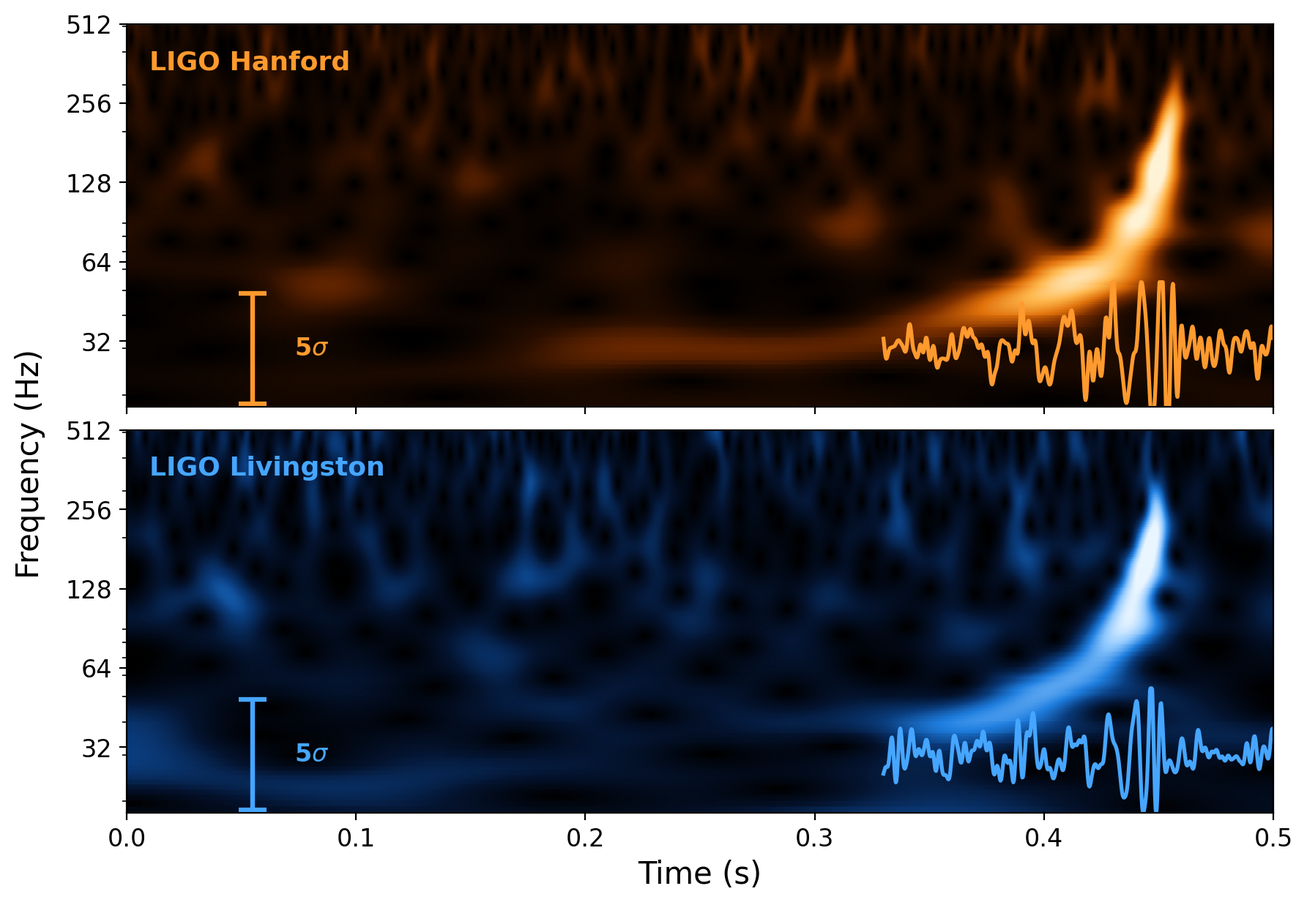
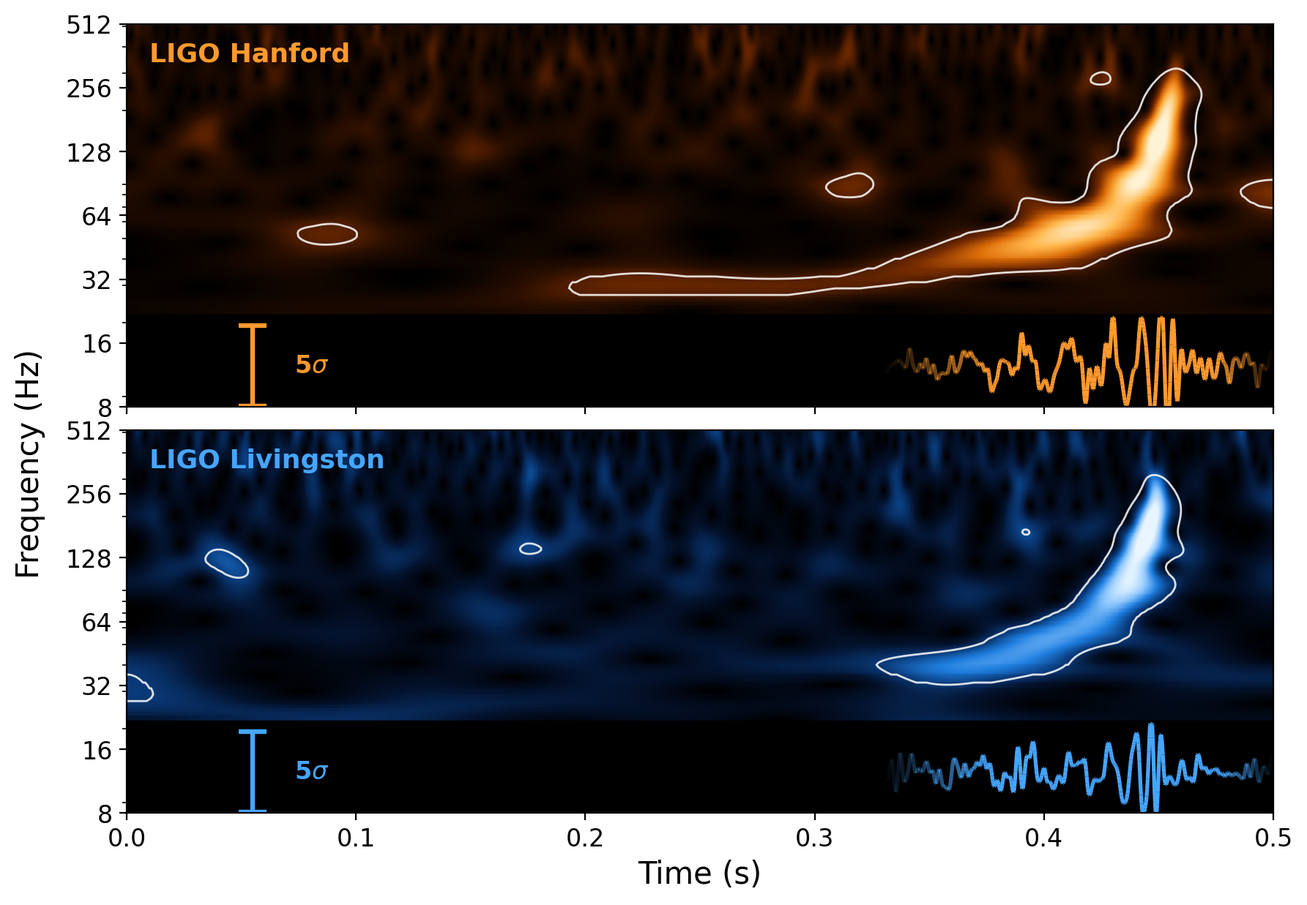
GW150914 wavelet figure: AR(1) 99% significance contour, gradient line, lower floor
- Outline the wavelet power's 99% confidence region against an AR(1) red-noise
  background (Torrence & Compo; chi2_2(0.99)/2), reusing the project's
  significance method; the chirp clears it in both detectors.
- Lower the frequency floor to 8 Hz and drop the overlaid strain into the
  8-22 Hz band so it no longer overlaps the scalogram.
- Fade the truncated ends of the strain line with a gradient alpha.
Prose, code tab and chap7.ipynb updated.

Claude-Session: https://claude.ai/code/session_013g6Jis2ksDyqM4YC8tx1nv

diff --git a/docs/chap7.html b/docs/chap7.html
@@ -709,6 +709,7 @@ The STFT spectra of a signal that consists of a growing wave, a chriping wave, a
 <ul>
 <li>One panel per detector — <strong>LIGO Hanford</strong> (top) and <strong>LIGO Livingston</strong> (bottom). Each shows the <strong>Morlet-wavelet (CWT) scalogram</strong> of that detector’s whitened strain; the band-passed strain itself is drawn as the wiggling line over the <strong>time of interest</strong> (the last ~0.15 s), and the vertical <strong>I-beam</strong> at the left gives its amplitude — about <span class="math inline">5\sigma</span> of the whitened-noise level.</li>
 <li>In <strong>both</strong> detectors the same bright track sweeps up — from ~35 Hz to past ~250 Hz in the final ~0.2 s — the inspiral <strong>chirp</strong>, ending at the merger. Two independent instruments, 3000 km apart, recording the identical sweep is the core of the detection’s credibility.</li>
+<li>The white outline is the <strong>99 % significance contour</strong>: the wavelet power exceeding the <span class="math inline">\chi^2_2</span> confidence level of an <strong>AR(1) red-noise</strong> background (Torrence &amp; Compo). The chirp clears it comfortably in both detectors; almost nothing in the surrounding noise does.</li>
 <li>Because the wavelet’s window <em>narrows in time as the frequency rises</em> (constant-<span class="math inline">Q</span>), it tracks the rapidly accelerating chirp far more cleanly than a fixed-window STFT could — a preview of the continuous wavelet transform introduced next.</li>
 </ul>
 </div>
@@ -723,65 +724,81 @@ The STFT spectra of a signal that consists of a growing wave, a chriping wave, a
 </div>
 <div id="tabset-2-2" class="tab-pane" role="tabpanel" aria-labelledby="tabset-2-2-tab">
 <div class="code-copy-outer-scaffold"><div class="sourceCode" id="cb3"><pre class="sourceCode python code-with-copy"><code class="sourceCode python"><span id="cb3-1"><a href="#cb3-1" aria-hidden="true" tabindex="-1"></a><span class="im">import</span> numpy <span class="im">as</span> np, urllib.request</span>
-<span id="cb3-2"><a href="#cb3-2" aria-hidden="true" tabindex="-1"></a><span class="im">import</span> scipy.signal <span class="im">as</span> sig, scipy.interpolate, ssqueezepy</span>
-<span id="cb3-3"><a href="#cb3-3" aria-hidden="true" tabindex="-1"></a><span class="im">import</span> matplotlib.pyplot <span class="im">as</span> plt</span>
+<span id="cb3-2"><a href="#cb3-2" aria-hidden="true" tabindex="-1"></a><span class="im">import</span> scipy.signal <span class="im">as</span> sig, scipy.interpolate, scipy.stats, ssqueezepy</span>
+<span id="cb3-3"><a href="#cb3-3" aria-hidden="true" tabindex="-1"></a><span class="im">import</span> matplotlib.pyplot <span class="im">as</span> plt, matplotlib.colors <span class="im">as</span> mcolors</span>
 <span id="cb3-4"><a href="#cb3-4" aria-hidden="true" tabindex="-1"></a><span class="im">from</span> matplotlib.colors <span class="im">import</span> LinearSegmentedColormap</span>
-<span id="cb3-5"><a href="#cb3-5" aria-hidden="true" tabindex="-1"></a><span class="im">from</span> ssqueezepy.experimental <span class="im">import</span> scale_to_freq</span>
-<span id="cb3-6"><a href="#cb3-6" aria-hidden="true" tabindex="-1"></a></span>
-<span id="cb3-7"><a href="#cb3-7" aria-hidden="true" tabindex="-1"></a>fs <span class="op">=</span> <span class="dv">4096</span><span class="op">;</span> dt <span class="op">=</span> <span class="dv">1</span> <span class="op">/</span> fs</span>
-<span id="cb3-8"><a href="#cb3-8" aria-hidden="true" tabindex="-1"></a>tm <span class="op">=</span> <span class="fl">16.422</span>                                   <span class="co"># merger, seconds into the 32 s file</span></span>
-<span id="cb3-9"><a href="#cb3-9" aria-hidden="true" tabindex="-1"></a></span>
-<span id="cb3-10"><a href="#cb3-10" aria-hidden="true" tabindex="-1"></a><span class="co"># --- LIGO Open Science Center strain (4096 Hz, 32 s around GW150914) ---</span></span>
-<span id="cb3-11"><a href="#cb3-11" aria-hidden="true" tabindex="-1"></a>base <span class="op">=</span> <span class="st">'https://gwosc.org/s/events/GW150914/'</span></span>
-<span id="cb3-12"><a href="#cb3-12" aria-hidden="true" tabindex="-1"></a><span class="kw">def</span> fetch(tag):</span>
-<span id="cb3-13"><a href="#cb3-13" aria-hidden="true" tabindex="-1"></a>    fn <span class="op">=</span> <span class="ss">f'</span><span class="sc">{</span>tag<span class="sc">}</span><span class="ss">_LOSC_4_V2-1126259446-32.txt.gz'</span></span>
-<span id="cb3-14"><a href="#cb3-14" aria-hidden="true" tabindex="-1"></a>    urllib.request.urlretrieve(base <span class="op">+</span> fn, fn)</span>
-<span id="cb3-15"><a href="#cb3-15" aria-hidden="true" tabindex="-1"></a>    <span class="cf">return</span> np.loadtxt(fn)                      <span class="co"># 3 header lines auto-skipped (comments='#')</span></span>
-<span id="cb3-16"><a href="#cb3-16" aria-hidden="true" tabindex="-1"></a>H1, L1 <span class="op">=</span> fetch(<span class="st">'H-H1'</span>), fetch(<span class="st">'L-L1'</span>)</span>
-<span id="cb3-17"><a href="#cb3-17" aria-hidden="true" tabindex="-1"></a>t <span class="op">=</span> np.arange(<span class="bu">len</span>(H1)) <span class="op">*</span> dt</span>
-<span id="cb3-18"><a href="#cb3-18" aria-hidden="true" tabindex="-1"></a></span>
-<span id="cb3-19"><a href="#cb3-19" aria-hidden="true" tabindex="-1"></a><span class="co"># --- whiten: flatten the coloured detector noise in the frequency domain ---</span></span>
-<span id="cb3-20"><a href="#cb3-20" aria-hidden="true" tabindex="-1"></a><span class="kw">def</span> whiten(x):</span>
-<span id="cb3-21"><a href="#cb3-21" aria-hidden="true" tabindex="-1"></a>    f, Pxx <span class="op">=</span> sig.welch(x, fs<span class="op">=</span>fs, nperseg<span class="op">=</span><span class="dv">4</span> <span class="op">*</span> fs)</span>
-<span id="cb3-22"><a href="#cb3-22" aria-hidden="true" tabindex="-1"></a>    psd <span class="op">=</span> scipy.interpolate.interp1d(f, Pxx, bounds_error<span class="op">=</span><span class="va">False</span>, fill_value<span class="op">=</span>np.inf)</span>
-<span id="cb3-23"><a href="#cb3-23" aria-hidden="true" tabindex="-1"></a>    freqs <span class="op">=</span> np.fft.rfftfreq(<span class="bu">len</span>(x), dt)</span>
-<span id="cb3-24"><a href="#cb3-24" aria-hidden="true" tabindex="-1"></a>    <span class="cf">return</span> np.fft.irfft(np.fft.rfft(x) <span class="op">/</span> np.sqrt(psd(freqs) <span class="op">/</span> dt <span class="op">/</span> <span class="fl">2.</span>), n<span class="op">=</span><span class="bu">len</span>(x))</span>
-<span id="cb3-25"><a href="#cb3-25" aria-hidden="true" tabindex="-1"></a>bb, ab <span class="op">=</span> sig.butter(<span class="dv">4</span>, [<span class="dv">30</span>, <span class="dv">350</span>], btype<span class="op">=</span><span class="st">'band'</span>, fs<span class="op">=</span>fs)</span>
-<span id="cb3-26"><a href="#cb3-26" aria-hidden="true" tabindex="-1"></a>t0 <span class="op">=</span> tm <span class="op">-</span> <span class="fl">0.45</span>                                              <span class="co"># window start -&gt; x runs 0..0.5 s</span></span>
+<span id="cb3-5"><a href="#cb3-5" aria-hidden="true" tabindex="-1"></a><span class="im">from</span> matplotlib.collections <span class="im">import</span> LineCollection</span>
+<span id="cb3-6"><a href="#cb3-6" aria-hidden="true" tabindex="-1"></a><span class="im">from</span> scipy.ndimage <span class="im">import</span> gaussian_filter</span>
+<span id="cb3-7"><a href="#cb3-7" aria-hidden="true" tabindex="-1"></a><span class="im">from</span> ssqueezepy.experimental <span class="im">import</span> scale_to_freq</span>
+<span id="cb3-8"><a href="#cb3-8" aria-hidden="true" tabindex="-1"></a></span>
+<span id="cb3-9"><a href="#cb3-9" aria-hidden="true" tabindex="-1"></a>fs <span class="op">=</span> <span class="dv">4096</span><span class="op">;</span> dt <span class="op">=</span> <span class="dv">1</span> <span class="op">/</span> fs</span>
+<span id="cb3-10"><a href="#cb3-10" aria-hidden="true" tabindex="-1"></a>tm <span class="op">=</span> <span class="fl">16.422</span><span class="op">;</span> t0 <span class="op">=</span> tm <span class="op">-</span> <span class="fl">0.45</span>                        <span class="co"># window start -&gt; x runs 0..0.5 s</span></span>
+<span id="cb3-11"><a href="#cb3-11" aria-hidden="true" tabindex="-1"></a></span>
+<span id="cb3-12"><a href="#cb3-12" aria-hidden="true" tabindex="-1"></a><span class="co"># --- LIGO Open Science Center strain (4096 Hz, 32 s around GW150914) ---</span></span>
+<span id="cb3-13"><a href="#cb3-13" aria-hidden="true" tabindex="-1"></a>base <span class="op">=</span> <span class="st">'https://gwosc.org/s/events/GW150914/'</span></span>
+<span id="cb3-14"><a href="#cb3-14" aria-hidden="true" tabindex="-1"></a><span class="kw">def</span> fetch(tag):</span>
+<span id="cb3-15"><a href="#cb3-15" aria-hidden="true" tabindex="-1"></a>    fn <span class="op">=</span> <span class="ss">f'</span><span class="sc">{</span>tag<span class="sc">}</span><span class="ss">_LOSC_4_V2-1126259446-32.txt.gz'</span></span>
+<span id="cb3-16"><a href="#cb3-16" aria-hidden="true" tabindex="-1"></a>    urllib.request.urlretrieve(base <span class="op">+</span> fn, fn)</span>
+<span id="cb3-17"><a href="#cb3-17" aria-hidden="true" tabindex="-1"></a>    <span class="cf">return</span> np.loadtxt(fn)                          <span class="co"># 3 header lines auto-skipped (comments='#')</span></span>
+<span id="cb3-18"><a href="#cb3-18" aria-hidden="true" tabindex="-1"></a>H1, L1 <span class="op">=</span> fetch(<span class="st">'H-H1'</span>), fetch(<span class="st">'L-L1'</span>)</span>
+<span id="cb3-19"><a href="#cb3-19" aria-hidden="true" tabindex="-1"></a>t <span class="op">=</span> np.arange(<span class="bu">len</span>(H1)) <span class="op">*</span> dt</span>
+<span id="cb3-20"><a href="#cb3-20" aria-hidden="true" tabindex="-1"></a></span>
+<span id="cb3-21"><a href="#cb3-21" aria-hidden="true" tabindex="-1"></a><span class="kw">def</span> whiten(x):                                     <span class="co"># flatten the coloured detector noise</span></span>
+<span id="cb3-22"><a href="#cb3-22" aria-hidden="true" tabindex="-1"></a>    f, Pxx <span class="op">=</span> sig.welch(x, fs<span class="op">=</span>fs, nperseg<span class="op">=</span><span class="dv">4</span> <span class="op">*</span> fs)</span>
+<span id="cb3-23"><a href="#cb3-23" aria-hidden="true" tabindex="-1"></a>    psd <span class="op">=</span> scipy.interpolate.interp1d(f, Pxx, bounds_error<span class="op">=</span><span class="va">False</span>, fill_value<span class="op">=</span>np.inf)</span>
+<span id="cb3-24"><a href="#cb3-24" aria-hidden="true" tabindex="-1"></a>    freqs <span class="op">=</span> np.fft.rfftfreq(<span class="bu">len</span>(x), dt)</span>
+<span id="cb3-25"><a href="#cb3-25" aria-hidden="true" tabindex="-1"></a>    <span class="cf">return</span> np.fft.irfft(np.fft.rfft(x) <span class="op">/</span> np.sqrt(psd(freqs) <span class="op">/</span> dt <span class="op">/</span> <span class="fl">2.</span>), n<span class="op">=</span><span class="bu">len</span>(x))</span>
+<span id="cb3-26"><a href="#cb3-26" aria-hidden="true" tabindex="-1"></a>bb, ab <span class="op">=</span> sig.butter(<span class="dv">4</span>, [<span class="dv">30</span>, <span class="dv">350</span>], btype<span class="op">=</span><span class="st">'band'</span>, fs<span class="op">=</span>fs)</span>
 <span id="cb3-27"><a href="#cb3-27" aria-hidden="true" tabindex="-1"></a></span>
 <span id="cb3-28"><a href="#cb3-28" aria-hidden="true" tabindex="-1"></a>cmap_H <span class="op">=</span> LinearSegmentedColormap.from_list(<span class="st">'H'</span>, [<span class="st">'#000000'</span>,<span class="st">'#2a0f00'</span>,<span class="st">'#7a2e00'</span>,<span class="st">'#e0700a'</span>,<span class="st">'#ffb84d'</span>,<span class="st">'#fff3d6'</span>])</span>
 <span id="cb3-29"><a href="#cb3-29" aria-hidden="true" tabindex="-1"></a>cmap_L <span class="op">=</span> LinearSegmentedColormap.from_list(<span class="st">'L'</span>, [<span class="st">'#000000'</span>,<span class="st">'#04132e'</span>,<span class="st">'#0a3b7a'</span>,<span class="st">'#1f7fe0'</span>,<span class="st">'#8fc8ff'</span>,<span class="st">'#eaf6ff'</span>])</span>
 <span id="cb3-30"><a href="#cb3-30" aria-hidden="true" tabindex="-1"></a></span>
-<span id="cb3-31"><a href="#cb3-31" aria-hidden="true" tabindex="-1"></a>yc, kk, Sbar <span class="op">=</span> <span class="fl">30.0</span>, <span class="fl">0.042</span>, <span class="fl">5.0</span>                             <span class="co"># trace baseline (Hz), log-gain, scale bar (sigma)</span></span>
-<span id="cb3-32"><a href="#cb3-32" aria-hidden="true" tabindex="-1"></a>fig, (axH, axL) <span class="op">=</span> plt.subplots(<span class="dv">2</span>, <span class="dv">1</span>, figsize<span class="op">=</span>(<span class="dv">9</span>, <span class="fl">6.2</span>), sharex<span class="op">=</span><span class="va">True</span>)</span>
-<span id="cb3-33"><a href="#cb3-33" aria-hidden="true" tabindex="-1"></a>fig.subplots_adjust(hspace<span class="op">=</span><span class="fl">0.06</span>, left<span class="op">=</span><span class="fl">0.115</span>, right<span class="op">=</span><span class="fl">0.985</span>, top<span class="op">=</span><span class="fl">0.985</span>, bottom<span class="op">=</span><span class="fl">0.115</span>)</span>
-<span id="cb3-34"><a href="#cb3-34" aria-hidden="true" tabindex="-1"></a><span class="cf">for</span> ax, raw, cmap, wcol, label <span class="kw">in</span> [(axH, H1, cmap_H, <span class="st">'#ff9a2e'</span>, <span class="st">'LIGO Hanford'</span>),</span>
-<span id="cb3-35"><a href="#cb3-35" aria-hidden="true" tabindex="-1"></a>                                   (axL, L1, cmap_L, <span class="st">'#46a6ff'</span>, <span class="st">'LIGO Livingston'</span>)]:</span>
-<span id="cb3-36"><a href="#cb3-36" aria-hidden="true" tabindex="-1"></a>    Xw <span class="op">=</span> whiten(raw)</span>
-<span id="cb3-37"><a href="#cb3-37" aria-hidden="true" tabindex="-1"></a>    mw <span class="op">=</span> (t <span class="op">&gt;</span> t0) <span class="op">&amp;</span> (t <span class="op">&lt;</span> tm <span class="op">+</span> <span class="fl">0.05</span>)<span class="op">;</span> xw <span class="op">=</span> t[mw] <span class="op">-</span> t0        <span class="co"># 0 .. 0.5 s</span></span>
-<span id="cb3-38"><a href="#cb3-38" aria-hidden="true" tabindex="-1"></a>    Wx, scales <span class="op">=</span> ssqueezepy.cwt(Xw[mw], (<span class="st">'morlet'</span>, {<span class="st">'mu'</span>: <span class="dv">6</span>}), fs<span class="op">=</span>fs, l1_norm<span class="op">=</span><span class="va">False</span>)</span>
-<span id="cb3-39"><a href="#cb3-39" aria-hidden="true" tabindex="-1"></a>    freqs <span class="op">=</span> scale_to_freq(scales, (<span class="st">'morlet'</span>, {<span class="st">'mu'</span>: <span class="dv">6</span>}), mw.<span class="bu">sum</span>(), fs<span class="op">=</span>fs)</span>
-<span id="cb3-40"><a href="#cb3-40" aria-hidden="true" tabindex="-1"></a>    sel <span class="op">=</span> (freqs <span class="op">&gt;=</span> <span class="dv">18</span>) <span class="op">&amp;</span> (freqs <span class="op">&lt;=</span> <span class="dv">512</span>)<span class="op">;</span> A <span class="op">=</span> np.<span class="bu">abs</span>(Wx[sel])</span>
-<span id="cb3-41"><a href="#cb3-41" aria-hidden="true" tabindex="-1"></a>    ax.pcolormesh(xw, freqs[sel], A, shading<span class="op">=</span><span class="st">'gouraud'</span>, cmap<span class="op">=</span>cmap,</span>
-<span id="cb3-42"><a href="#cb3-42" aria-hidden="true" tabindex="-1"></a>                  vmax<span class="op">=</span>np.percentile(A[:, xw <span class="op">&gt;</span> <span class="fl">0.30</span>], <span class="fl">99.6</span>))</span>
-<span id="cb3-43"><a href="#cb3-43" aria-hidden="true" tabindex="-1"></a>    <span class="co"># whitened strain in units of sigma, shown only over the time of interest</span></span>
-<span id="cb3-44"><a href="#cb3-44" aria-hidden="true" tabindex="-1"></a>    ws <span class="op">=</span> sig.filtfilt(bb, ab, Xw)[mw]<span class="op">;</span> ws <span class="op">=</span> ws <span class="op">/</span> ws[xw <span class="op">&lt;</span> <span class="fl">0.25</span>].std()</span>
-<span id="cb3-45"><a href="#cb3-45" aria-hidden="true" tabindex="-1"></a>    keep <span class="op">=</span> xw <span class="op">&gt;</span> <span class="fl">0.33</span></span>
-<span id="cb3-46"><a href="#cb3-46" aria-hidden="true" tabindex="-1"></a>    ax.plot(xw[keep], yc <span class="op">*</span> <span class="dv">10</span><span class="op">**</span>(kk <span class="op">*</span> np.clip(ws[keep], <span class="op">-</span><span class="dv">6</span>, <span class="dv">6</span>)), color<span class="op">=</span>wcol, lw<span class="op">=</span><span class="fl">1.9</span>)</span>
-<span id="cb3-47"><a href="#cb3-47" aria-hidden="true" tabindex="-1"></a>    <span class="co"># vertical I-beam scale bar: absolute amplitude with its unit (sigma)</span></span>
-<span id="cb3-48"><a href="#cb3-48" aria-hidden="true" tabindex="-1"></a>    xb <span class="op">=</span> <span class="fl">0.055</span></span>
-<span id="cb3-49"><a href="#cb3-49" aria-hidden="true" tabindex="-1"></a>    ax.errorbar([xb], [yc], yerr<span class="op">=</span>[[yc <span class="op">-</span> yc<span class="op">*</span><span class="dv">10</span><span class="op">**</span>(<span class="op">-</span>kk<span class="op">*</span>Sbar)], [yc<span class="op">*</span><span class="dv">10</span><span class="op">**</span>(kk<span class="op">*</span>Sbar) <span class="op">-</span> yc]],</span>
-<span id="cb3-50"><a href="#cb3-50" aria-hidden="true" tabindex="-1"></a>                fmt<span class="op">=</span><span class="st">'none'</span>, ecolor<span class="op">=</span>wcol, elinewidth<span class="op">=</span><span class="fl">2.3</span>, capsize<span class="op">=</span><span class="dv">7</span>, capthick<span class="op">=</span><span class="fl">2.3</span>)</span>
-<span id="cb3-51"><a href="#cb3-51" aria-hidden="true" tabindex="-1"></a>    ax.text(xb <span class="op">+</span> <span class="fl">0.018</span>, yc, <span class="ss">f'</span><span class="sc">{</span>Sbar<span class="sc">:.0f}</span><span class="ss">$</span><span class="ch">\\</span><span class="ss">sigma$'</span>, color<span class="op">=</span>wcol, fontsize<span class="op">=</span><span class="dv">12</span>,</span>
-<span id="cb3-52"><a href="#cb3-52" aria-hidden="true" tabindex="-1"></a>            va<span class="op">=</span><span class="st">'center'</span>, ha<span class="op">=</span><span class="st">'left'</span>, fontweight<span class="op">=</span><span class="st">'bold'</span>)</span>
-<span id="cb3-53"><a href="#cb3-53" aria-hidden="true" tabindex="-1"></a>    ax.set_yscale(<span class="st">'log'</span>)<span class="op">;</span> ax.set_ylim(<span class="dv">18</span>, <span class="dv">512</span>)<span class="op">;</span> ax.set_xlim(<span class="dv">0</span>, <span class="fl">0.5</span>)</span>
-<span id="cb3-54"><a href="#cb3-54" aria-hidden="true" tabindex="-1"></a>    ax.set_yticks([<span class="dv">32</span>, <span class="dv">64</span>, <span class="dv">128</span>, <span class="dv">256</span>, <span class="dv">512</span>])<span class="op">;</span> ax.set_yticklabels([<span class="dv">32</span>, <span class="dv">64</span>, <span class="dv">128</span>, <span class="dv">256</span>, <span class="dv">512</span>])</span>
-<span id="cb3-55"><a href="#cb3-55" aria-hidden="true" tabindex="-1"></a>    ax.tick_params(labelsize<span class="op">=</span><span class="dv">12</span>)</span>
-<span id="cb3-56"><a href="#cb3-56" aria-hidden="true" tabindex="-1"></a>    ax.text(<span class="fl">0.02</span>, <span class="fl">0.90</span>, label, transform<span class="op">=</span>ax.transAxes, color<span class="op">=</span>wcol, fontsize<span class="op">=</span><span class="dv">13</span>,</span>
-<span id="cb3-57"><a href="#cb3-57" aria-hidden="true" tabindex="-1"></a>            fontweight<span class="op">=</span><span class="st">'bold'</span>, va<span class="op">=</span><span class="st">'center'</span>)</span>
-<span id="cb3-58"><a href="#cb3-58" aria-hidden="true" tabindex="-1"></a>    ax.set_facecolor(<span class="st">'black'</span>)</span>
-<span id="cb3-59"><a href="#cb3-59" aria-hidden="true" tabindex="-1"></a>axL.set_xlabel(<span class="st">'Time (s)'</span>, fontsize<span class="op">=</span><span class="dv">15</span>)<span class="op">;</span> fig.supylabel(<span class="st">'Frequency (Hz)'</span>, fontsize<span class="op">=</span><span class="dv">15</span>, x<span class="op">=</span><span class="fl">0.03</span>)</span>
-<span id="cb3-60"><a href="#cb3-60" aria-hidden="true" tabindex="-1"></a>plt.savefig(save_path <span class="op">+</span> <span class="st">'figure_ligo_gw150914.png'</span>, bbox_inches<span class="op">=</span><span class="st">'tight'</span>, dpi<span class="op">=</span><span class="dv">200</span>, facecolor<span class="op">=</span><span class="st">'white'</span>)</span></code></pre></div><button title="Copy to Clipboard" class="code-copy-button"><i class="bi"></i></button></div>
+<span id="cb3-31"><a href="#cb3-31" aria-hidden="true" tabindex="-1"></a>yc, kk, Sbar <span class="op">=</span> <span class="fl">12.5</span>, <span class="fl">0.038</span>, <span class="fl">5.0</span>                    <span class="co"># trace baseline (Hz), log-gain, scale bar (sigma)</span></span>
+<span id="cb3-32"><a href="#cb3-32" aria-hidden="true" tabindex="-1"></a><span class="kw">def</span> gradient_line(ax, x, y, color, lw):            <span class="co"># line whose truncated ends fade out in alpha</span></span>
+<span id="cb3-33"><a href="#cb3-33" aria-hidden="true" tabindex="-1"></a>    a <span class="op">=</span> np.clip((x <span class="op">-</span> x[<span class="dv">0</span>]) <span class="op">/</span> <span class="fl">0.05</span>, <span class="dv">0</span>, <span class="dv">1</span>) <span class="op">*</span> np.clip((x[<span class="op">-</span><span class="dv">1</span>] <span class="op">-</span> x) <span class="op">/</span> <span class="fl">0.025</span>, <span class="dv">0</span>, <span class="dv">1</span>)</span>
+<span id="cb3-34"><a href="#cb3-34" aria-hidden="true" tabindex="-1"></a>    pts <span class="op">=</span> np.array([x, y]).T.reshape(<span class="op">-</span><span class="dv">1</span>, <span class="dv">1</span>, <span class="dv">2</span>)</span>
+<span id="cb3-35"><a href="#cb3-35" aria-hidden="true" tabindex="-1"></a>    seg <span class="op">=</span> np.concatenate([pts[:<span class="op">-</span><span class="dv">1</span>], pts[<span class="dv">1</span>:]], axis<span class="op">=</span><span class="dv">1</span>)</span>
+<span id="cb3-36"><a href="#cb3-36" aria-hidden="true" tabindex="-1"></a>    rgba <span class="op">=</span> np.tile([<span class="op">*</span>mcolors.to_rgb(color), <span class="fl">1.0</span>], (<span class="bu">len</span>(seg), <span class="dv">1</span>))<span class="op">;</span> rgba[:, <span class="dv">3</span>] <span class="op">=</span> <span class="fl">0.5</span><span class="op">*</span>(a[:<span class="op">-</span><span class="dv">1</span>] <span class="op">+</span> a[<span class="dv">1</span>:])</span>
+<span id="cb3-37"><a href="#cb3-37" aria-hidden="true" tabindex="-1"></a>    ax.add_collection(LineCollection(seg, colors<span class="op">=</span>rgba, linewidths<span class="op">=</span>lw))</span>
+<span id="cb3-38"><a href="#cb3-38" aria-hidden="true" tabindex="-1"></a></span>
+<span id="cb3-39"><a href="#cb3-39" aria-hidden="true" tabindex="-1"></a>fig, (axH, axL) <span class="op">=</span> plt.subplots(<span class="dv">2</span>, <span class="dv">1</span>, figsize<span class="op">=</span>(<span class="dv">9</span>, <span class="fl">6.2</span>), sharex<span class="op">=</span><span class="va">True</span>)</span>
+<span id="cb3-40"><a href="#cb3-40" aria-hidden="true" tabindex="-1"></a>fig.subplots_adjust(hspace<span class="op">=</span><span class="fl">0.06</span>, left<span class="op">=</span><span class="fl">0.115</span>, right<span class="op">=</span><span class="fl">0.985</span>, top<span class="op">=</span><span class="fl">0.985</span>, bottom<span class="op">=</span><span class="fl">0.115</span>)</span>
+<span id="cb3-41"><a href="#cb3-41" aria-hidden="true" tabindex="-1"></a><span class="cf">for</span> ax, raw, cmap, wcol, label <span class="kw">in</span> [(axH, H1, cmap_H, <span class="st">'#ff9a2e'</span>, <span class="st">'LIGO Hanford'</span>),</span>
+<span id="cb3-42"><a href="#cb3-42" aria-hidden="true" tabindex="-1"></a>                                   (axL, L1, cmap_L, <span class="st">'#46a6ff'</span>, <span class="st">'LIGO Livingston'</span>)]:</span>
+<span id="cb3-43"><a href="#cb3-43" aria-hidden="true" tabindex="-1"></a>    Xw <span class="op">=</span> whiten(raw)</span>
+<span id="cb3-44"><a href="#cb3-44" aria-hidden="true" tabindex="-1"></a>    mw <span class="op">=</span> (t <span class="op">&gt;</span> t0) <span class="op">&amp;</span> (t <span class="op">&lt;</span> tm <span class="op">+</span> <span class="fl">0.05</span>)<span class="op">;</span> xw <span class="op">=</span> t[mw] <span class="op">-</span> t0        <span class="co"># 0 .. 0.5 s</span></span>
+<span id="cb3-45"><a href="#cb3-45" aria-hidden="true" tabindex="-1"></a>    Wx, scales <span class="op">=</span> ssqueezepy.cwt(Xw[mw], (<span class="st">'morlet'</span>, {<span class="st">'mu'</span>: <span class="dv">6</span>}), fs<span class="op">=</span>fs, l1_norm<span class="op">=</span><span class="va">False</span>)</span>
+<span id="cb3-46"><a href="#cb3-46" aria-hidden="true" tabindex="-1"></a>    freqs <span class="op">=</span> scale_to_freq(scales, (<span class="st">'morlet'</span>, {<span class="st">'mu'</span>: <span class="dv">6</span>}), mw.<span class="bu">sum</span>(), fs<span class="op">=</span>fs)</span>
+<span id="cb3-47"><a href="#cb3-47" aria-hidden="true" tabindex="-1"></a>    sel <span class="op">=</span> (freqs <span class="op">&gt;=</span> <span class="dv">22</span>) <span class="op">&amp;</span> (freqs <span class="op">&lt;=</span> <span class="dv">512</span>)<span class="op">;</span> fr <span class="op">=</span> freqs[sel]<span class="op">;</span> Pw <span class="op">=</span> np.<span class="bu">abs</span>(Wx[sel])<span class="op">**</span><span class="dv">2</span></span>
+<span id="cb3-48"><a href="#cb3-48" aria-hidden="true" tabindex="-1"></a>    ax.pcolormesh(xw, fr, np.sqrt(Pw), shading<span class="op">=</span><span class="st">'gouraud'</span>, cmap<span class="op">=</span>cmap,</span>
+<span id="cb3-49"><a href="#cb3-49" aria-hidden="true" tabindex="-1"></a>                  vmax<span class="op">=</span>np.percentile(np.sqrt(Pw)[:, xw <span class="op">&gt;</span> <span class="fl">0.30</span>], <span class="fl">99.6</span>))</span>
+<span id="cb3-50"><a href="#cb3-50" aria-hidden="true" tabindex="-1"></a></span>
+<span id="cb3-51"><a href="#cb3-51" aria-hidden="true" tabindex="-1"></a>    <span class="co"># --- AR(1) red-noise 99% significance contour (Torrence &amp; Compo) ---</span></span>
+<span id="cb3-52"><a href="#cb3-52" aria-hidden="true" tabindex="-1"></a>    x  <span class="op">=</span> Xw[mw] <span class="op">-</span> Xw[mw].mean()</span>
+<span id="cb3-53"><a href="#cb3-53" aria-hidden="true" tabindex="-1"></a>    a1 <span class="op">=</span> <span class="bu">max</span>(np.corrcoef(x[:<span class="op">-</span><span class="dv">1</span>], x[<span class="dv">1</span>:])[<span class="dv">0</span>, <span class="dv">1</span>], <span class="fl">0.0</span>)              <span class="co"># lag-1 autocorrelation</span></span>
+<span id="cb3-54"><a href="#cb3-54" aria-hidden="true" tabindex="-1"></a>    Pbg <span class="op">=</span> (<span class="dv">1</span> <span class="op">-</span> a1<span class="op">**</span><span class="dv">2</span>) <span class="op">/</span> (<span class="dv">1</span> <span class="op">+</span> a1<span class="op">**</span><span class="dv">2</span> <span class="op">-</span> <span class="dv">2</span><span class="op">*</span>a1<span class="op">*</span>np.cos(<span class="dv">2</span><span class="op">*</span>np.pi<span class="op">*</span>fr<span class="op">/</span>fs)) <span class="co"># red-noise background spectrum</span></span>
+<span id="cb3-55"><a href="#cb3-55" aria-hidden="true" tabindex="-1"></a>    noise <span class="op">=</span> xw <span class="op">&lt;</span> <span class="fl">0.25</span></span>
+<span id="cb3-56"><a href="#cb3-56" aria-hidden="true" tabindex="-1"></a>    cal <span class="op">=</span> np.median(Pw[:, noise].mean(<span class="dv">1</span>) <span class="op">/</span> Pbg)                 <span class="co"># calibrate amplitude to the noise</span></span>
+<span id="cb3-57"><a href="#cb3-57" aria-hidden="true" tabindex="-1"></a>    sig99 <span class="op">=</span> cal <span class="op">*</span> Pbg <span class="op">*</span> scipy.stats.chi2(<span class="dv">2</span>).ppf(<span class="fl">0.99</span>) <span class="op">/</span> <span class="dv">2</span>       <span class="co"># 99 % level: chi2_2(0.99)/2 = 4.605</span></span>
+<span id="cb3-58"><a href="#cb3-58" aria-hidden="true" tabindex="-1"></a>    R <span class="op">=</span> gaussian_filter(Pw, sigma<span class="op">=</span>(<span class="fl">1.6</span>, <span class="fl">22.0</span>)) <span class="op">/</span> sig99[:, <span class="va">None</span>]</span>
+<span id="cb3-59"><a href="#cb3-59" aria-hidden="true" tabindex="-1"></a>    ax.contour(xw, fr, R, levels<span class="op">=</span>[<span class="fl">1.0</span>], colors<span class="op">=</span><span class="st">'w'</span>, linewidths<span class="op">=</span><span class="fl">1.0</span>, alpha<span class="op">=</span><span class="fl">0.85</span>)</span>
+<span id="cb3-60"><a href="#cb3-60" aria-hidden="true" tabindex="-1"></a></span>
+<span id="cb3-61"><a href="#cb3-61" aria-hidden="true" tabindex="-1"></a>    <span class="co"># --- whitened strain (sigma units), gradient-faded, over the time of interest ---</span></span>
+<span id="cb3-62"><a href="#cb3-62" aria-hidden="true" tabindex="-1"></a>    ws <span class="op">=</span> sig.filtfilt(bb, ab, Xw)[mw]<span class="op">;</span> ws <span class="op">=</span> ws <span class="op">/</span> ws[noise].std()</span>
+<span id="cb3-63"><a href="#cb3-63" aria-hidden="true" tabindex="-1"></a>    keep <span class="op">=</span> xw <span class="op">&gt;</span> <span class="fl">0.33</span></span>
+<span id="cb3-64"><a href="#cb3-64" aria-hidden="true" tabindex="-1"></a>    gradient_line(ax, xw[keep], yc<span class="op">*</span><span class="dv">10</span><span class="op">**</span>(kk<span class="op">*</span>np.clip(ws[keep], <span class="op">-</span><span class="dv">6</span>, <span class="dv">6</span>)), wcol, <span class="fl">1.9</span>)</span>
+<span id="cb3-65"><a href="#cb3-65" aria-hidden="true" tabindex="-1"></a>    xb <span class="op">=</span> <span class="fl">0.055</span>                                                  <span class="co"># vertical I-beam: amplitude in sigma</span></span>
+<span id="cb3-66"><a href="#cb3-66" aria-hidden="true" tabindex="-1"></a>    ax.errorbar([xb], [yc], yerr<span class="op">=</span>[[yc <span class="op">-</span> yc<span class="op">*</span><span class="dv">10</span><span class="op">**</span>(<span class="op">-</span>kk<span class="op">*</span>Sbar)], [yc<span class="op">*</span><span class="dv">10</span><span class="op">**</span>(kk<span class="op">*</span>Sbar) <span class="op">-</span> yc]],</span>
+<span id="cb3-67"><a href="#cb3-67" aria-hidden="true" tabindex="-1"></a>                fmt<span class="op">=</span><span class="st">'none'</span>, ecolor<span class="op">=</span>wcol, elinewidth<span class="op">=</span><span class="fl">2.3</span>, capsize<span class="op">=</span><span class="dv">7</span>, capthick<span class="op">=</span><span class="fl">2.3</span>)</span>
+<span id="cb3-68"><a href="#cb3-68" aria-hidden="true" tabindex="-1"></a>    ax.text(xb <span class="op">+</span> <span class="fl">0.018</span>, yc, <span class="ss">f'</span><span class="sc">{</span>Sbar<span class="sc">:.0f}</span><span class="ss">$</span><span class="ch">\\</span><span class="ss">sigma$'</span>, color<span class="op">=</span>wcol, fontsize<span class="op">=</span><span class="dv">12</span>, va<span class="op">=</span><span class="st">'center'</span>, ha<span class="op">=</span><span class="st">'left'</span>, fontweight<span class="op">=</span><span class="st">'bold'</span>)</span>
+<span id="cb3-69"><a href="#cb3-69" aria-hidden="true" tabindex="-1"></a></span>
+<span id="cb3-70"><a href="#cb3-70" aria-hidden="true" tabindex="-1"></a>    ax.set_yscale(<span class="st">'log'</span>)<span class="op">;</span> ax.set_ylim(<span class="dv">8</span>, <span class="dv">512</span>)<span class="op">;</span> ax.set_xlim(<span class="dv">0</span>, <span class="fl">0.5</span>)</span>
+<span id="cb3-71"><a href="#cb3-71" aria-hidden="true" tabindex="-1"></a>    ax.set_yticks([<span class="dv">8</span>, <span class="dv">16</span>, <span class="dv">32</span>, <span class="dv">64</span>, <span class="dv">128</span>, <span class="dv">256</span>, <span class="dv">512</span>])<span class="op">;</span> ax.set_yticklabels([<span class="dv">8</span>, <span class="dv">16</span>, <span class="dv">32</span>, <span class="dv">64</span>, <span class="dv">128</span>, <span class="dv">256</span>, <span class="dv">512</span>])</span>
+<span id="cb3-72"><a href="#cb3-72" aria-hidden="true" tabindex="-1"></a>    ax.tick_params(labelsize<span class="op">=</span><span class="dv">12</span>)</span>
+<span id="cb3-73"><a href="#cb3-73" aria-hidden="true" tabindex="-1"></a>    ax.text(<span class="fl">0.02</span>, <span class="fl">0.92</span>, label, transform<span class="op">=</span>ax.transAxes, color<span class="op">=</span>wcol, fontsize<span class="op">=</span><span class="dv">13</span>, fontweight<span class="op">=</span><span class="st">'bold'</span>, va<span class="op">=</span><span class="st">'center'</span>)</span>
+<span id="cb3-74"><a href="#cb3-74" aria-hidden="true" tabindex="-1"></a>    ax.set_facecolor(<span class="st">'black'</span>)</span>
+<span id="cb3-75"><a href="#cb3-75" aria-hidden="true" tabindex="-1"></a>axL.set_xlabel(<span class="st">'Time (s)'</span>, fontsize<span class="op">=</span><span class="dv">15</span>)<span class="op">;</span> fig.supylabel(<span class="st">'Frequency (Hz)'</span>, fontsize<span class="op">=</span><span class="dv">15</span>, x<span class="op">=</span><span class="fl">0.03</span>)</span>
+<span id="cb3-76"><a href="#cb3-76" aria-hidden="true" tabindex="-1"></a>plt.savefig(save_path <span class="op">+</span> <span class="st">'figure_ligo_gw150914.png'</span>, bbox_inches<span class="op">=</span><span class="st">'tight'</span>, dpi<span class="op">=</span><span class="dv">200</span>, facecolor<span class="op">=</span><span class="st">'white'</span>)</span></code></pre></div><button title="Copy to Clipboard" class="code-copy-button"><i class="bi"></i></button></div>
 </div>
 </div>
 </div>
